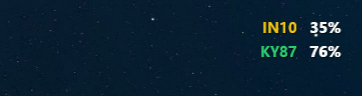
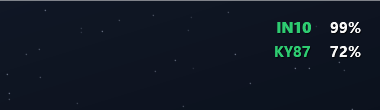
docs: refresh screenshots for the tray + overlay version
tray.png 是矢量重绘的托盘样张，screenshot.png 是真机抓的悬浮层（深色底幕），
social-preview.png 更新为两个形态并列的社交预览图。README 同步，删掉重复的 ASCII 示意。

diff --git a/README.md b/README.md
@@ -5,10 +5,9 @@
 [![license](https://img.shields.io/github/license/Lemon140339/BatteryMonitor)](LICENSE)
 
 在 Windows 桌面右上角显示无线键鼠电量的轻量工具。
+平时待在托盘里，全屏看视频或玩游戏时自动浮到右上角。
 
 **纯 HID 直读，不安装任何厂商驱动或后台服务。** 加一台新设备只需要改一个 JSON 文件。
-
-![screenshot](docs/screenshot.png)
 
 ---
 
@@ -22,19 +21,13 @@
 
 ## 显示效果
 
-平时托盘里**一台设备画一个电池**（竖着排，各自按电量着色），鼠标悬停显示具体数值：
+平时托盘里**一台设备画一个电池**（竖着排，各自按电量着色），鼠标悬停看具体数值：
 
-```
-        IN10  35%
-        KY87  76%
-```
+![托盘图标](docs/tray.png)
 
-全屏（视频 / 无边框游戏）时悬浮层自动出现在右上角：
+全屏（浏览器 / 无边框游戏）时悬浮层自动浮出右上角：
 
-```
-        IN10  35%
-        KY87  76%
-```
+![悬浮层](docs/screenshot.png)
 
 - 设备名按电量变色：绿 >50% / 黄 20–50% / 红 <20%
 - 百分比为浅白色，带淡黑描边，浅色壁纸下也清晰
@@ -149,7 +142,9 @@ devices/
 docs/
   ADD_DEVICE.md       如何适配新设备
   DESIGN.md           设计取舍
-  screenshot.png      界面截图
+  screenshot.png      悬浮层截图
+  tray.png            托盘图标样张
+  social-preview.png  仓库社交预览图（在 GitHub 设置里上传）
 USAGE-zh.txt              中文使用说明
 install-autostart.bat     注册开机自启
 uninstall-autostart.bat   取消开机自启
@@ -208,13 +203,14 @@ MIT，见 [LICENSE](LICENSE)。
 
 ## English
 
-A tiny overlay for Windows that shows wireless mouse and keyboard battery levels
-in the top-right corner of the screen.
+A tiny Windows tray app that shows wireless mouse and keyboard battery levels.
+It stays in the notification area and pops a small overlay into the top-right
+corner when you go fullscreen (browser or borderless games).
 
 - **Direct HID access** — no vendor drivers, no background services
 - **Config-driven** — device protocols live in `devices/*.json`; supporting a new
   device is a JSON edit, not a code change
-- **Single ~28 KB exe** — only needs .NET Framework 4.x
+- **Single ~46 KB exe** — only needs .NET Framework 4.x
 - **Read-only** — it never writes to the device
 
 Build with `build.bat`, package a release with `package.bat`.
